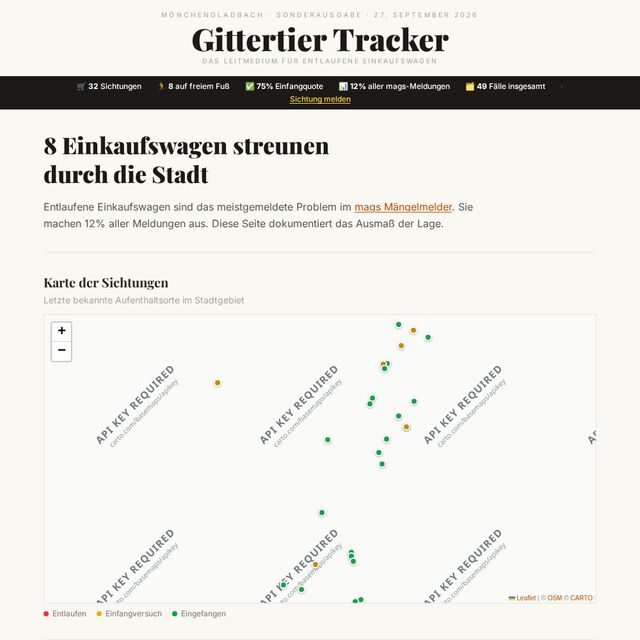
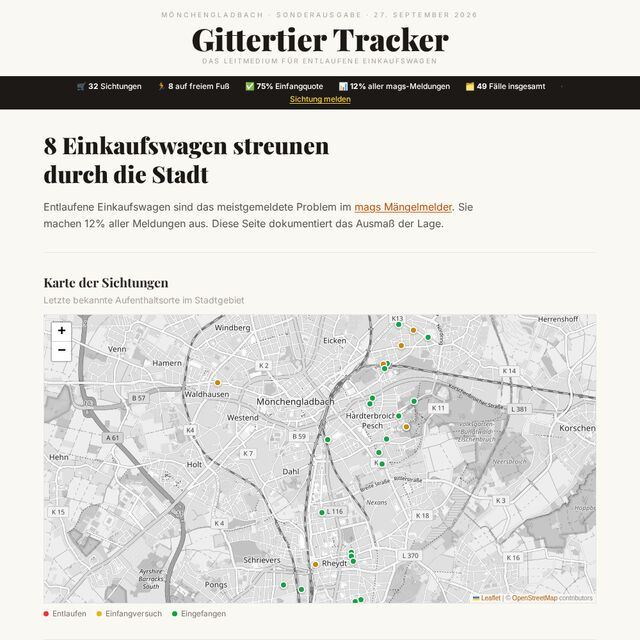
feat: use CV skills in stack bands and refresh gittertiere screenshot

Changed region(s): [[0.0625, 0.4688, 0.9375, 0.9688]]

diff --git a/index.html b/index.html
@@ -86,22 +86,23 @@
     <section class="bands" aria-labelledby="stack-title">
       <h2 class="sr-only" id="stack-title">stack</h2>
       <ul class="sr-only">
-        <li>frontend: typescript, react, tailwind css, tanstack router, query and start</li>
-        <li>backend: bun, elysia, trpc, drizzle orm</li>
-        <li>data: postgresql, clickhouse, mongodb</li>
-        <li>tooling: vite, biome, turborepo</li>
-        <li>infra: docker, hetzner, dokploy, cloudflare</li>
+        <li>languages: typescript, javascript, sql, rust</li>
+        <li>backend &amp; data: bun, node.js, postgresql, clickhouse, sqlite, valkey/redis, mongodb, elysia, trpc, orpc, drizzle, prisma, event sourcing, server-sent events, websockets</li>
+        <li>frontend: react, next.js, tanstack start, tailwind css, vite, storybook</li>
+        <li>devops &amp; cloud: docker, docker compose, terraform, github actions, ci/cd, coolify, dokploy, hetzner, vercel, unix</li>
+        <li>observability: opentelemetry, distributed tracing, axiom, structured &amp; wide-event logging</li>
+        <li>ai tooling: claude code, agentic coding, spec-driven development, mcp servers, multi-agent workflows</li>
       </ul>
       <div class="band band-a" aria-hidden="true">
         <div class="track">
-          <span>typescript</span><span>react</span><span>tailwind css</span><span>tanstack</span><span>bun</span><span>elysia</span><span>trpc</span><span>drizzle orm</span>
-          <span>typescript</span><span>react</span><span>tailwind css</span><span>tanstack</span><span>bun</span><span>elysia</span><span>trpc</span><span>drizzle orm</span>
+          <span>typescript</span><span>javascript</span><span>sql</span><span>rust</span><span>bun</span><span>node.js</span><span>postgresql</span><span>clickhouse</span><span>sqlite</span><span>valkey/redis</span><span>mongodb</span><span>elysia</span><span>trpc</span><span>orpc</span><span>drizzle</span><span>prisma</span><span>event sourcing</span><span>server-sent events</span><span>websockets</span>
+          <span>typescript</span><span>javascript</span><span>sql</span><span>rust</span><span>bun</span><span>node.js</span><span>postgresql</span><span>clickhouse</span><span>sqlite</span><span>valkey/redis</span><span>mongodb</span><span>elysia</span><span>trpc</span><span>orpc</span><span>drizzle</span><span>prisma</span><span>event sourcing</span><span>server-sent events</span><span>websockets</span>
         </div>
       </div>
       <div class="band band-b" aria-hidden="true">
         <div class="track">
-          <span>postgresql</span><span>clickhouse</span><span>mongodb</span><span>vite</span><span>biome</span><span>turborepo</span><span>docker</span><span>hetzner</span><span>dokploy</span><span>cloudflare</span>
-          <span>postgresql</span><span>clickhouse</span><span>mongodb</span><span>vite</span><span>biome</span><span>turborepo</span><span>docker</span><span>hetzner</span><span>dokploy</span><span>cloudflare</span>
+          <span>react</span><span>next.js</span><span>tanstack start</span><span>tailwind css</span><span>vite</span><span>storybook</span><span>docker</span><span>docker compose</span><span>terraform</span><span>github actions</span><span>ci/cd</span><span>coolify</span><span>dokploy</span><span>hetzner</span><span>vercel</span><span>unix</span><span>opentelemetry</span><span>distributed tracing</span><span>axiom</span><span>structured &amp; wide-event logging</span><span>claude code</span><span>agentic coding</span><span>spec-driven development</span><span>mcp servers</span><span>multi-agent workflows</span>
+          <span>react</span><span>next.js</span><span>tanstack start</span><span>tailwind css</span><span>vite</span><span>storybook</span><span>docker</span><span>docker compose</span><span>terraform</span><span>github actions</span><span>ci/cd</span><span>coolify</span><span>dokploy</span><span>hetzner</span><span>vercel</span><span>unix</span><span>opentelemetry</span><span>distributed tracing</span><span>axiom</span><span>structured &amp; wide-event logging</span><span>claude code</span><span>agentic coding</span><span>spec-driven development</span><span>mcp servers</span><span>multi-agent workflows</span>
         </div>
       </div>
     </section>

diff --git a/src/styles.css b/src/styles.css
@@ -321,12 +321,12 @@ main {
 .track {
 	display: flex;
 	width: max-content;
-	animation: marquee 40s linear infinite;
+	animation: marquee 100s linear infinite;
 }
 
 .band-b .track {
 	animation-direction: reverse;
-	animation-duration: 48s;
+	animation-duration: 120s;
 }
 
 .track span {
